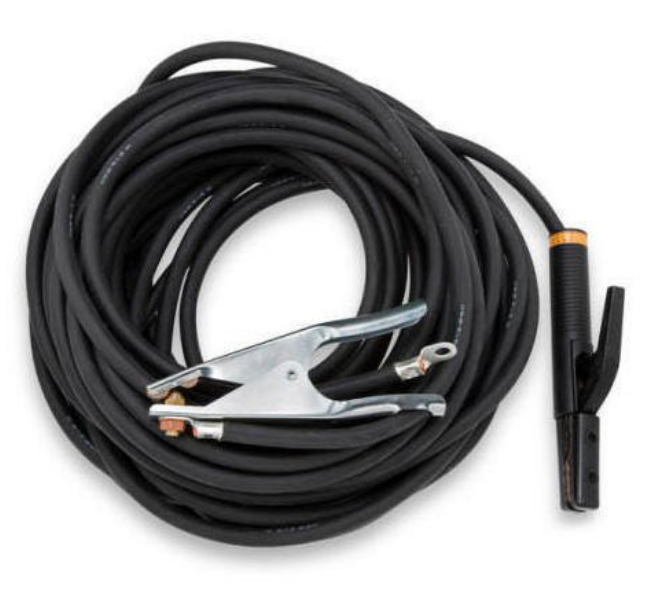
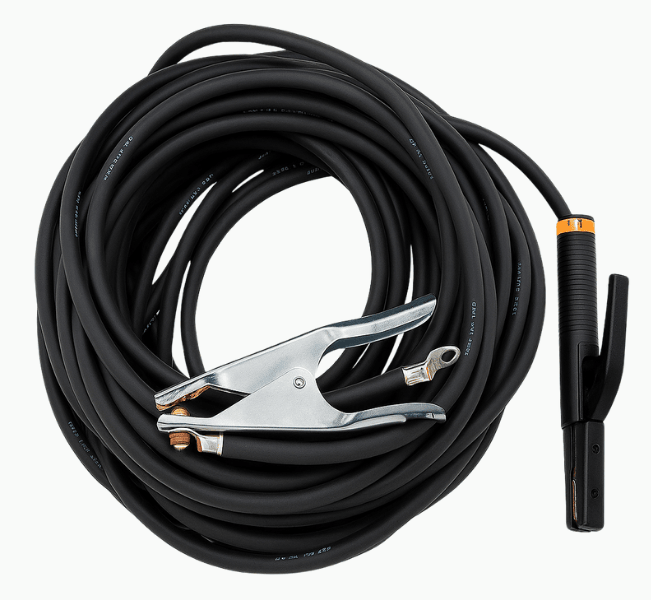
Product Welding added

diff --git a/welding-cable-compound-nbr/index.html b/welding-cable-compound-nbr/index.html
@@ -4,9 +4,9 @@
 <head>
     <meta charset="utf-8">
     <meta http-equiv="x-ua-compatible" content="ie=edge">
-    <title> Welding Cable Compound NBR | DEV Polymer</title>
-    <meta name="description" content="High-performance NBR welding cable compound for flexible, durable and oil-resistant insulation. Safe and reliable solution for industrial welding cables.">
-    <meta name="keywords" content="welding cable compound, NBR insulation material, welding cable sheathing compound, oil resistant welding cable polymer, flexible welding cable insulation India, high strength welding cable compound.">
+    <title>  Welding Cable Compound NBR | DEV Polymer</title>
+    <meta name="description" content="High-performance Welding Cable Compounds by DEV Polymer ensure flexibility, heat resistance, oil protection and durability for industrial welding applications.">
+    <meta name="keywords" content="NBR welding cable compound, welding insulation compound, flexible cable compound, oil resistant cable insulation, heat resistant welding cable, industrial welding wire insulation, rubber cable material, PVC polymer compound India, DEV Polymer Delhi, welding cable sheathing compound">
     <meta name="viewport" content="width=device-width, initial-scale=1">
     <!-- Place favicon.ico in the root directory -->
     <link rel="shortcut icon" type="image/x-icon" href="/assets/images/favicon.png">
@@ -271,150 +271,244 @@
                 <div class="row g-5">
                     <div class="col-xl-8 col-lg-8">
                         <div class="rs-services-details-wrapper">
-                    
-                            <h3 class="rs-services-details-title">Engineering Confidence into Every Connection</h3>
-                            <p class="mt-20 mb-20">Welding cables operate in some of the harshest industrial environments, carrying high currents while exposed to sparks, heat, abrasion and mechanical stress. The insulation and sheathing material surrounding those cables plays a decisive role in performance, safety and longevity. At DEV Polymer, innovation and reliability come together with our <strong>NBR-based Welding Cable Compound</strong>, designed to meet the demanding requirements of welding operations across industries.</p>
-                            <p>Formulated with nitrile butadiene rubber (NBR) and specialized additives, the compound ensures superior electrical insulation, flexibility, flame resistance and oil resistance. Whether in fabrication workshops, shipyards, construction sites or automotive plants, welding cables manufactured using DEV NBR compound deliver consistent power transmission and withstand rugged conditions.</p>
+                            <h3 class="rs-services-details-title">Delivering Strength and Safety for Industrial Welding Applications</h3>
+                            <p class="mt-20 mb-20">In every welding operation, performance depends on precision and protection. While conductors transmit energy, it is the insulation compound that safeguards against electrical hazards, mechanical wear and environmental stress. The insulation material defines not only how efficiently a cable performs but also how long it endures under heat, abrasion and continuous movement.</p>
+                            <p class="mt-20 mb-20">At <strong>DEV Polymer</strong>, we engineer advanced <strong>Welding Cable Compounds</strong> that combine flexibility, strength and safety for industrial environments. Our <strong>NBR-based insulation formulations</strong> are designed to perform under the toughest conditions, ensuring consistent conductivity, resistance to oils and chemicals and superior durability in both static and dynamic cable applications.</p>
+                            <p class="mt-20 mb-20">With over two decades of experience and an annual production capacity over <strong>10,000 tons</strong>, DEV Polymer stands as one of India’s most trusted manufacturers of polymer compounds for the electrical and industrial sectors.</p>
                             
+                            <h3 class="rs-services-details-title">Engineering the Perfect Balance of Flexibility and Safety</h3>
+                            <p class="mt-20 mb-20">Welding cables operate in extremely demanding settings—exposed to sparks, oils, heat and constant bending during operation. The insulation around these cables must remain intact, pliable and non-conductive to guarantee operator safety and uninterrupted performance.</p>
+                            <p class="mt-20 mb-20">DEV Polymer’s Welding Cable Compounds are meticulously developed using <strong>Nitrile Butadiene Rubber (NBR)</strong> and other high-performance elastomers. These materials ensure outstanding oil and abrasion resistance while maintaining flexibility across wide temperature ranges. Each batch is engineered to provide consistent extrusion behaviour, smooth surface finish and long service life even in industrial or outdoor environments.</p>
+                            <div class="rs-postbox-details-thumb mt-20 mb-20">
+                                <img src="img/DEV Polymer NBR Welding Cable Compound.png" alt="image">
+                            </div>
                             <h3 class="rs-services-details-title">Why Welding Cable Compound Matters in Industrial Applications?</h3>
-                            <p class="mt-20 mb-20">A welding cable is only as reliable as the material protecting its conductor. In real-world environments, cables endure bending, dragging, sparks, hot metal fragments, oil spills and exposure to chemicals. Inferior insulation material can lead to cracks, burns, short circuits or early failure, disrupting operations and increasing costs.</p>
-                            <p>The NBR welding cable compound from DEV Polymer acts as a safeguard, ensuring uninterrupted current flow, electrical safety and long-lasting service. By resisting heat, abrasion and industrial contaminants, the compound extends cable life, minimizes downtime and guarantees operator safety.</p>
+                            <p class="mt-20 mb-20">In the welding industry, cable performance depends heavily on the insulation system. A properly formulated compound offers vital protection from environmental degradation, mechanical stress and electrical leakage. Our compounds are designed to meet these essential criteria:</p>
+                            <ul class="service-details__list mt-20 mb-20">
+                                <li>
+                                    <i class="fa fa-check-circle"></i>
+                                    <p><strong>Thermal Resistance:</strong> Maintains elasticity and insulation stability during high welding current loads.</p>
+                                </li>
+                                <li>
+                                    <i class="fa fa-check-circle"></i>
+                                    <p><strong>Oil and Chemical Resistance:</strong> Resists deterioration from contact with lubricants, fuels and industrial chemicals.</p>
+                                </li>
+                                <li>
+                                    <i class="fa fa-check-circle"></i>
+                                    <p><strong>Mechanical Strength:</strong> Provides flexibility and tensile endurance under continuous coiling and uncoiling.</p>
+                                </li>
+                                <li>
+                                    <i class="fa fa-check-circle"></i>
+                                    <p><strong>Electrical Safety:</strong> Ensures insulation integrity, preventing leakage or short circuits in harsh working conditions.</p>
+                                </li>
+                                <li>
+                                    <i class="fa fa-check-circle"></i>
+                                    <p><strong>Weather Resistance:</strong> Performs reliably in outdoor applications, resisting sunlight, ozone and moisture damage.</p>
+                                </li>
+                            </ul>
+                            <p class="mt-20 mb-20">Together, these attributes enable DEV Polymer compounds to extend the service life of welding cables while enhancing safety and operational reliability.</p>
                             
                             <h3 class="rs-services-details-title">Applications of NBR Welding Cable Compound</h3>
-                            <p class="mt-20 mb-20">DEV NBR compound is engineered for versatile use across diverse industries where reliable welding cables are critical. Applications include:</p>
+                            <p class="mt-20 mb-20">Our NBR-based compounds are widely used for insulation and sheathing in a range of <strong>welding and power transmission applications</strong>, including:</p>
                             <ul class="service-details__list mt-20 mb-20">
-                                <li><i class="fa fa-check-circle"></i><p><strong>Heavy-duty welding cables</strong> used in construction, steel fabrication and shipbuilding.</p></li>
-                                <li><i class="fa fa-check-circle"></i><p><strong>Automotive and transport welding operations</strong> where flexibility and oil resistance are essential.</p></li>
-                                <li><i class="fa fa-check-circle"></i><p><strong>Power-intensive industrial welding setups</strong> demanding insulation with superior dielectric properties.</p></li>
-                                <li><i class="fa fa-check-circle"></i><p><strong>Portable welding units</strong> requiring cables that can withstand frequent bending and abrasion.</p></li>
-                                <li><i class="fa fa-check-circle"></i><p><strong>Fabrication workshops and repair facilities</strong> where cables are exposed to sparks, chemicals and rough handling.</p></li>
+                                <li>
+                                    <i class="fa fa-check-circle"></i>
+                                    <p><strong>Welding Cables and Leads:</strong> For manual and automated arc welding, ensuring flexibility and heat endurance.</p>
+                                </li>
+                                <li>
+                                    <i class="fa fa-check-circle"></i>
+                                    <p><strong>Battery and Jumper Cables:</strong> Providing durable insulation in automotive and industrial battery systems.</p>
+                                </li>
+                                <li>
+                                    <i class="fa fa-check-circle"></i>
+                                    <p><strong>Power and Earth Moving Equipment:</strong> Suitable for machinery operating under extreme conditions.</p>
+                                </li>
+                                <li>
+                                    <i class="fa fa-check-circle"></i>
+                                    <p><strong>Flexible Power Transmission Cables:</strong> Ideal for mobile equipment and industrial setups requiring high mechanical endurance.</p>
+                                </li>
+                                <li>
+                                    <i class="fa fa-check-circle"></i>
+                                    <p><strong>Mining and Construction Cables:</strong> Resistant to abrasion, oil and environmental wear, ensuring reliable performance in rugged terrains.</p>
+                                </li>
                             </ul>
-                            <p class="mt-20 mb-20">Whether for small-scale workshops or large industrial projects, cables manufactured with DEV NBR compound maintain strength, safety and performance in challenging conditions.</p>
+                            <p class="mt-20 mb-20">Whether used in factory workshops or field operations, DEV Polymer Welding Cable Compounds guarantee durability, performance and user safety across diverse industrial environments.</p>
                             <div class="rs-postbox-details-thumb-wrapper mb-30">
                                 <div class="row g-5">
-                                    <div class="col-xl-6 col-lg-6 col-md-6 col-sm-6">
-                                        <div class="rs-postbox-details-thumb">
-                                            <img src="img/Welding Cable.png" alt="image">
-                                        </div>
-                                    </div>
                                     <div class="col-xl-6 col-lg-6 col-md-6 col-sm-6">
                                         <div class="rs-postbox-details-thumb">
                                             <img src="img/Welding Cables.png" alt="image">
                                         </div>
                                     </div>
+                                    <div class="col-xl-6 col-lg-6 col-md-6 col-sm-6">
+                                        <div class="rs-postbox-details-thumb">
+                                            <img src="img/Welding Cable.png" alt="image">
+                                        </div>
+                                    </div>
                                 </div>
                             </div>
-                            <h3 class="rs-services-details-title">Key Features of DEV NBR Welding Cable Compound</h3>
+                            <h3 class="rs-services-details-title">Key Features of DEV NBR Welding Cable Compounds</h3>
                             <p class="mt-20 mb-20">Our NBR-based welding cable compound delivers a unique combination of properties designed to meet the toughest performance benchmarks:</p>
                             <ul class="service-details__list mt-20 mb-20">
-                                <li><i class="fa fa-check-circle"></i><p><strong>Superior Thermal Resistance: </strong>Formulated to withstand the heat generated during welding, the compound resists thermal degradation, preserving insulation properties under continuous load.</p></li>
-                                <li><i class="fa fa-check-circle"></i><p><strong>High Flexibility: </strong>Welding requires frequent movement and bending of cables. DEV NBR compound maintains flexibility across a wide temperature range, ensuring ease of handling without compromising safety.</p></li>
-                                <li><i class="fa fa-check-circle"></i><p><strong>Excellent Oil and Chemical Resistance: </strong>Industrial environments often expose cables to lubricants, oils, fuels and solvents. The NBR formulation protects against chemical attack, maintaining structural integrity and insulation reliability.</p></li>
-                                <li><i class="fa fa-check-circle"></i><p><strong>Enhanced Flame Retardancy: </strong>Safety is paramount in welding operations. The compound incorporates flame-retardant properties that prevent fire propagation and contribute to safer working conditions.</p></li>
-                                <li><i class="fa fa-check-circle"></i><p><strong>Outstanding Mechanical Strength: </strong>High abrasion resistance and tensile strength make the cables robust against mechanical wear, dragging and impact during use. Strong dielectric properties ensure safe energy transmission, reducing the risks of leakage current, short circuits or power loss.</p></li>
+                                <li>
+                                    <i class="fa fa-check-circle"></i>
+                                    <p><strong>Excellent Flexibility and Tensile Strength:</strong> Engineered to endure repeated bending and coiling without cracks or stiffness, ensuring smooth handling and extended life.</p>
+                                </li>
+                                <li>
+                                    <i class="fa fa-check-circle"></i>
+                                    <p><strong>Superior Heat and Flame Resistance:</strong> Performs effectively in elevated temperature zones, protecting conductors from welding sparks and heat exposure.</p>
+                                </li>
+                                <li>
+                                    <i class="fa fa-check-circle"></i>
+                                    <p><strong>Oil, Fuel and Chemical Resistance:</strong> Formulated with advanced NBR elastomers to resist industrial oils, fuels and solvents, reducing surface degradation.</p>
+                                </li>
+                                <li>
+                                    <i class="fa fa-check-circle"></i>
+                                    <p><strong>Weather and Ozone Stability:</strong> Provides long-term resistance against UV exposure, ozone and humidity, ensuring stable performance in outdoor use.</p>
+                                </li>
+                                <li>
+                                    <i class="fa fa-check-circle"></i>
+                                    <p><strong>Smooth Extrusion and Surface Finish:</strong> Optimized rheology ensures uniform extrusion, minimal die build-up and a consistent glossy surface finish for improved cable aesthetics.</p>
+                                </li>
+                                <li>
+                                    <i class="fa fa-check-circle"></i>
+                                    <p><strong>Reliable Electrical Insulation:</strong> Maintains high dielectric strength and electrical insulation integrity under varying loads and environmental conditions.</p>
+                                </li>
                             </ul>
-                        
+                            
                             <h3 class="rs-services-details-title mt-20 mb-20">Technical Advantages at a Glance</h3>
                             <ul class="service-details__list mt-20 mb-20">
-                                <li><i class="fa fa-check-circle"></i><p><strong>Operating Temperature Range</strong>: -30°C to +90°C</p></li>
-                                <li><i class="fa fa-check-circle"></i><p><strong>Flexibility:</strong> Maintains performance under repeated bending and coiling</p></li>
-                                <li><i class="fa fa-check-circle"></i><p><strong>Abrasion Resistance:</strong> Protects cables from cuts, wear and rough handling</p></li>
-                                <li><i class="fa fa-check-circle"></i><p><strong>Dielectric Strength:</strong> High insulation resistance for safe current flow</p></li>
-                                <li><i class="fa fa-check-circle"></i><p><strong>Flame Retardancy:</strong> Meets global safety requirements for welding environments</p></li>
-                                <li><i class="fa fa-check-circle"></i><p><strong>Oil and Fuel Resistance:</strong> Proven performance in demanding industrial settings</p></li>
+                                <li>
+                                    <i class="fa fa-check-circle"></i>
+                                    <p><strong>Operating Temperature Range</strong>: -30°C to +90°C</p>
+                                </li>
+                                <li>
+                                    <i class="fa fa-check-circle"></i>
+                                    <p><strong>Abrasion and Impact Resistance:</strong> Protects against cuts, friction and physical stress during use</p>
+                                </li>
+                                <li>
+                                    <i class="fa fa-check-circle"></i>
+                                    <p><strong>Flexibility Retention:</strong> Ensures smooth performance even in cold climates</p>
+                                </li>
+                                <li>
+                                    <i class="fa fa-check-circle"></i>
+                                    <p><strong>Fire and Safety Compliance:</strong> Meets international flame resistance and electrical safety standards</p>
+                                </li>
+                                <li>
+                                    <i class="fa fa-check-circle"></i>
+                                    <p><strong>Dielectric Strength:</strong> High insulation resistance for safe current flow</p>
+                                </li>
+                                <li>
+                                    <i class="fa fa-check-circle"></i>
+                                    <p><strong>Oil and Fuel Resistance:</strong> Proven performance in demanding industrial settings</p>
+                                </li>
                             </ul>
-                            <div class="rs-postbox-details-thumb mt-20 mb-20">
-                                <img src="img/DEV Polymer NBR Welding Cable Compound.png" alt="image">
-                            </div>
-                            <h3 class="rs-services-details-title">Compliance and Quality Assurance</h3>
-                            <p class="mt-20 mb-20">DEV NBR welding cable compounds are developed to align with international standards governing electrical safety and material performance. Each batch undergoes stringent quality control tests for tensile strength, elongation, thermal aging, insulation resistance and flame retardancy. This ensures consistent performance for manufacturers and dependable safety for end-users.</p>
-                             
+                            
                             <h3 class="rs-services-details-title">How DEV Polymer Leads in NBR Welding Cable Compounds?</h3>
                             <p class="mt-20 mb-20">Decades of expertise in polymer compounding make DEV a trusted partner for cable manufacturers across India and global markets. Our NBR welding cable compounds stand out because of:</p>
-                            
                             <ul class="service-details__list mt-20 mb-20">
-                                <li><i class="fa fa-check-circle"></i><p><strong>Precision Formulation:</strong> Designed with balanced properties for insulation and sheathing in high-current welding cables.</p></li>
-                                <li><i class="fa fa-check-circle"></i><p><strong>Consistent Quality:</strong> Rigorous testing ensures batch-to-batch uniformity and reliability.</p></li>
-                                <li><i class="fa fa-check-circle"></i><p><strong>Custom Solutions:</strong> Ability to modify compounds for specific performance requirements such as enhanced flexibility, higher flame resistance or special voltage grades.</p></li>
-                                <li><i class="fa fa-check-circle"></i><p><strong>Local Expertise and Support:</strong> Strong supply chain networks guarantee timely delivery and technical support for uninterrupted production cycles.</p></li>
+                                <li>
+                                    <i class="fa fa-check-circle"></i>
+                                    <p><strong>Precision Formulation:</strong> Designed with balanced properties for insulation and sheathing in high-current welding cables.</p>
+                                </li>
+                                <li>
+                                    <i class="fa fa-check-circle"></i>
+                                    <p><strong>Consistent Quality:</strong> Rigorous testing ensures batch-to-batch uniformity and reliability.</p>
+                                </li>
+                                <li>
+                                    <i class="fa fa-check-circle"></i>
+                                    <p><strong>Modern Manufacturing Infrastructure:</strong> Our production facility is equipped with twin-screw extruders, precision mixers and real-time monitoring systems, ensuring uniform dispersion and high productivity.</p>
+                                </li>
+                                <li>
+                                    <i class="fa fa-check-circle"></i>
+                                    <p><strong>Custom Solutions:</strong> Ability to modify compounds for specific performance requirements such as enhanced flexibility, higher flame resistance or special voltage grades.</p>
+                                </li>
+                                <li>
+                                    <i class="fa fa-check-circle"></i>
+                                    <p><strong>Sustainable and Compliant Materials:</strong> All DEV Polymer compounds are RoHS-compliant and free from hazardous additives, ensuring environmentally responsible manufacturing.</p>
+                                </li>
+                                <li>
+                                    <i class="fa fa-check-circle"></i>
+                                    <p><strong>Local Expertise and Support:</strong> Strong supply chain networks guarantee timely delivery and technical support for uninterrupted production cycles.</p>
+                                </li>
                             </ul>
                             
-                            <h3 class="rs-services-details-title">Serving Industrial Growth with Reliable Cable Solutions</h3>
-                            <p class="mt-20 mb-20">With growing demand for efficient welding in infrastructure, automotive, energy and heavy machinery sectors, the need for durable welding cables is greater than ever. DEV Polymer contributes to this growth by supplying compounds that help manufacturers produce cables capable of meeting modern safety and performance standards.</p>
-                            <p>From small workshops to large industrial plants, our NBR welding cable compounds empower manufacturers to deliver dependable cables that keep operations running smoothly.</p>
+                            <h3 class="rs-services-details-title">Supporting Industrial Innovation and Safety</h3>
+                            <p class="mt-20 mb-20">Industrial welding continues to evolve with automation, higher power ratings and advanced safety requirements. <strong>DEV Polymer’s Welding Cable Compounds</strong> are designed to support this evolution by delivering long-term insulation reliability, user protection and adaptability for modern manufacturing processes.</p>
+                            <p class="mt-20 mb-20">From infrastructure and construction to automotive and heavy machinery, our compounds form the foundation of safe, efficient and durable cable systems used across India and global markets.</p>
                             
-                            <h3 class="rs-services-details-title">Why the Future Belongs to NBR Welding Cable Compounds?</h3>
-                            <p class="mt-20 mb-20">In industries where welding is integral, cable safety and reliability cannot be compromised. NBR compounds offer the resilience, flexibility and safety that traditional materials often fail to provide. By investing in NBR-based insulation and sheathing, manufacturers secure longer cable lifespans, reduced maintenance costs and enhanced operator safety.</p>
-                            <p>DEV Polymer NBR compounds reflect innovation, strength and trust, ensuring every welding cable performs with precision in demanding environments.</p>
-                        
+                            <h3 class="rs-services-details-title">Why Choose DEV Polymer?</h3>
+                            <p class="mt-20 mb-20">Choosing <strong>DEV Polymer</strong> means partnering with a company that prioritizes material performance, technical consistency and customer satisfaction. Our polymer solutions are engineered not only to meet but to exceed the expectations of manufacturers who demand reliability, quality and safety in every product.</p>
+                            
                             <h3 class="rs-services-details-title">Explore DEV Polymer Welding Solutions</h3>
-                            <p class="mt-20 mb-20">Ready to upgrade your welding cable manufacturing with advanced NBR compounds? Connect with our experts today to discuss formulations, request specifications or explore customized solutions tailored for your needs.</p>
-                        
+                            <p class="mt-20 mb-20">Ready to elevate your welding cable performance with advanced material technology? Connect with our specialists for detailed specifications, tailored solutions and technical support designed for your specific operational requirements.</p>
+                            
                             <div class="post-bottom" style=" background-color: #ffffff; padding: 20px; border-left: 4px solid #ea5501; margin: 20px 0; padding-bottom: 5px;">
-                                <p style="margin-bottom: 12px !important;"> <strong>📞 Contact:</strong> <a href="tel:+919910295765">+91-9910295765</a> | <a href="tel:+918595295765">+91-8595295765</a> </p>
-                                <p style="margin-bottom: 12px !important;"> <strong>📧 Email:</strong> <a href="mailto:info@devpolymer.com">info@devpolymer.com</a> </p>
-                                <p style="margin-bottom: 12px !important;"><strong>DEV Polymer Compounding Reliability into Every Meter of Welding Cable</strong></p>
+                                <p style="margin-bottom: 12px !important;"> <strong>📞 Contact:</strong> <a style="color: blue;" href="tel:+919910295765">+91-9910295765</a> | <a style="color: blue;" href="tel:+918595295765">+91-8595295765</a> </p>
+                                <p style="margin-bottom: 12px !important;"> <strong>📧 Email:</strong> <a style="color: blue;" href="mailto:info@devpolymer.com">info@devpolymer.com</a> </p>
+                                <p style="margin-bottom: 12px !important;"><strong>DEV Polymer – Delivering Strength and Safety in Every Welding Connection.</strong></p>
                             </div>
                             
+                            <h3 class="rs-services-details-title mb-20">Questions? We’ve Got the Right Answers</h3>
+                            <p style="text-align: justify;" class="mb-20">Our specialists are here to assist you with detailed product information, technical guidance and the ideal NBR welding cable compound solution tailored to your specific industrial application.</p>
                             
-                            <h3 class="rs-services-details-title mb-20">FAQs on Welding Cable Compounds</h3>
                             <div class="rs-services-details-faq">
                                 <div class="rs-faq-content rs-accordion-one">
                                     <div class="accordion-wrapper">
                                         <div class="accordion" id="accordionExampleOne">
                                             <div class="rs-accordion-item">
                                                 <h4 class="accordion-header" id="headingOne">
-                                                    <button class="accordion-button" type="button" data-bs-toggle="collapse" data-bs-target="#collapseOne" aria-expanded="true" aria-controls="collapseOne">
-                                                        <strong style="text-align: justify;">Q1. What is NBR welding cable compound and why is it important?</strong>
+                                                    <button class="accordion-button collapsed" type="button" data-bs-toggle="collapse" data-bs-target="#collapseOne" aria-expanded="false" aria-controls="collapseOne">
+                                                        <strong style="text-align: justify;">Q1. What is NBR Welding Cable Compound used for?</strong>
                                                         <span class="accordion-btn"></span>
                                                     </button>
                                                 </h4>
-                                                <div id="collapseOne" class="accordion-collapse collapse show" data-bs-parent="#accordionExampleOne">
-                                                    <div class="accordion-body" style="text-align: justify;">NBR welding cable compound is a specialized insulation material that protects welding cables from oils, heat and abrasion. It ensures flexibility, high dielectric strength and flame resistance, which are crucial for safety, durability and performance in industrial welding environments.</div>
+                                                <div id="collapseOne" class="accordion-collapse collapse" data-bs-parent="#accordionExampleOne">
+                                                    <div class="accordion-body" style="text-align: justify;">NBR Welding Cable Compound by DEV Polymer is used as insulation and sheathing for welding cables. It provides flexibility, heat resistance and protection from oils, fuels and abrasions, ensuring durability and operator safety in demanding industrial and outdoor environments such as fabrication units, construction sites and heavy machinery workshops.</div>
                                                 </div>
                                             </div>
                                             <div class="rs-accordion-item">
                                                 <h6 class="accordion-header" id="headingTwo">
                                                     <button class="accordion-button collapsed" type="button" data-bs-toggle="collapse" data-bs-target="#collapseTwo" aria-expanded="false" aria-controls="collapseTwo">
-                                                        <strong style="text-align: justify;">Q2. How does DEV Polymer NBR compound enhance welding cable durability?</strong>
+                                                        <strong style="text-align: justify;">Q2. What makes NBR ideal for welding cable insulation?</strong>
                                                         <span class="accordion-btn"></span>
                                                     </button>
                                                 </h6>
                                                 <div id="collapseTwo" class="accordion-collapse collapse" data-bs-parent="#accordionExampleOne">
-                                                    <div class="accordion-body" style="text-align: justify;">DEV Polymer’s NBR compound resists oils, fuels, chemicals and mechanical stress, preventing cracks and insulation failure. Its abrasion resistance and flexibility extend cable lifespan, reduce downtime and ensure welding cables perform reliably under demanding industrial, construction and automotive workshop conditions.</div>
+                                                    <div class="accordion-body" style="text-align: justify;">Nitrile Butadiene Rubber (NBR) offers exceptional resistance to oil, heat and mechanical stress. It remains flexible even in cold temperatures, making it perfect for welding cable insulation that undergoes frequent bending and exposure to harsh industrial conditions while maintaining long-term dielectric strength and mechanical integrity.</div>
                                                 </div>
                                             </div>
                                             <div class="rs-accordion-item">
                                                 <h6 class="accordion-header" id="headingThree">
                                                     <button class="accordion-button collapsed" type="button" data-bs-toggle="collapse" data-bs-target="#collapseThree" aria-expanded="false" aria-controls="collapseThree">
-                                                        <strong style="text-align: justify;">Q3. Can NBR welding cable compounds be used outdoors?</strong>
+                                                        <strong style="text-align: justify;">Q3. What is the temperature range of DEV Polymer Welding Cable Compound?</strong>
                                                         <span class="accordion-btn"></span>
                                                     </button>
                                                 </h6>
                                                 <div id="collapseThree" class="accordion-collapse collapse" data-bs-parent="#accordionExampleOne">
-                                                    <div class="accordion-body" style="text-align: justify;">Yes. DEV Polymer NBR compounds are engineered with weather durability, UV resistance and flame retardancy, making them suitable for both indoor and outdoor welding operations. They withstand exposure to sunlight, moisture and rugged handling while maintaining flexibility, insulation and mechanical strength over time.</div>
+                                                    <div class="accordion-body" style="text-align: justify;">The compound performs efficiently across a wide temperature range from –30°C to +90°C. It retains flexibility, insulation stability and mechanical strength even under continuous thermal stress, making it suitable for both indoor and outdoor heavy-duty welding operations in industrial and construction environments.</div>
                                                 </div>
                                             </div>
                                             <div class="rs-accordion-item">
                                                 <h6 class="accordion-header" id="headingFour">
                                                     <button class="accordion-button collapsed" type="button" data-bs-toggle="collapse" data-bs-target="#collapseFour" aria-expanded="false" aria-controls="collapseFour">
-                                                        <strong style="text-align: justify;">Q4. What industries benefit most from welding cable compounds?</strong>
+                                                        <strong style="text-align: justify;">Q4. Are DEV Polymer compounds suitable for outdoor and heavy industrial use?</strong>
                                                         <span class="accordion-btn"></span>
                                                     </button>
                                                 </h6>
                                                 <div id="collapseFour" class="accordion-collapse collapse" data-bs-parent="#accordionExampleOne">
-                                                    <div class="accordion-body" style="text-align: justify;">Industries such as construction, shipbuilding, automotive, steel plants and fabrication yards benefit from NBR welding cable compounds. These environments demand cables that resist abrasion, oils and high temperatures while maintaining safe energy transfer, ensuring uninterrupted welding performance across diverse industrial applications.</div>
+                                                    <div class="accordion-body" style="text-align: justify;">Yes, DEV Polymer’s NBR-based welding cable compounds are designed to perform in extreme environments. They resist sunlight, ozone, oils and abrasion, ensuring cables remain flexible and durable. Their robust composition makes them ideal for outdoor welding, mining, automotive and heavy fabrication industries.</div>
                                                 </div>
                                             </div>
                                             <div class="rs-accordion-item">
                                                 <h6 class="accordion-header" id="headingFive">
                                                     <button class="accordion-button collapsed" type="button" data-bs-toggle="collapse" data-bs-target="#collapseFive" aria-expanded="false" aria-controls="collapseFive">
-                                                        <strong style="text-align: justify;">Q5. Why should manufacturers choose DEV Polymer for welding cable insulation?</strong>
+                                                        <strong style="text-align: justify;">Q5. Can DEV Polymer customize compounds for specific requirements?</strong>
                                                         <span class="accordion-btn"></span>
                                                     </button>
                                                 </h6>
                                                 <div id="collapseFive" class="accordion-collapse collapse" data-bs-parent="#accordionExampleOne">
-                                                    <div class="accordion-body" style="text-align: justify;">Manufacturers trust DEV Polymer for precision-engineered NBR compounds that combine oil resistance, flexibility and flame retardancy. With consistent quality, customizable formulations and reliable supply, DEV Polymer enables production of high-performance welding cables that meet stringent global standards while ensuring safety and long-term reliability.</div>
+                                                    <div class="accordion-body" style="text-align: justify;">Absolutely. DEV Polymer develops customized NBR formulations tailored for specific insulation hardness, extrusion performance or application conditions. Our R&amp;D team collaborates closely with manufacturers to create optimized compounds that enhance production efficiency, product longevity and compliance with global welding cable standards.</div>
                                                 </div>
                                             </div>
                                         </div>
